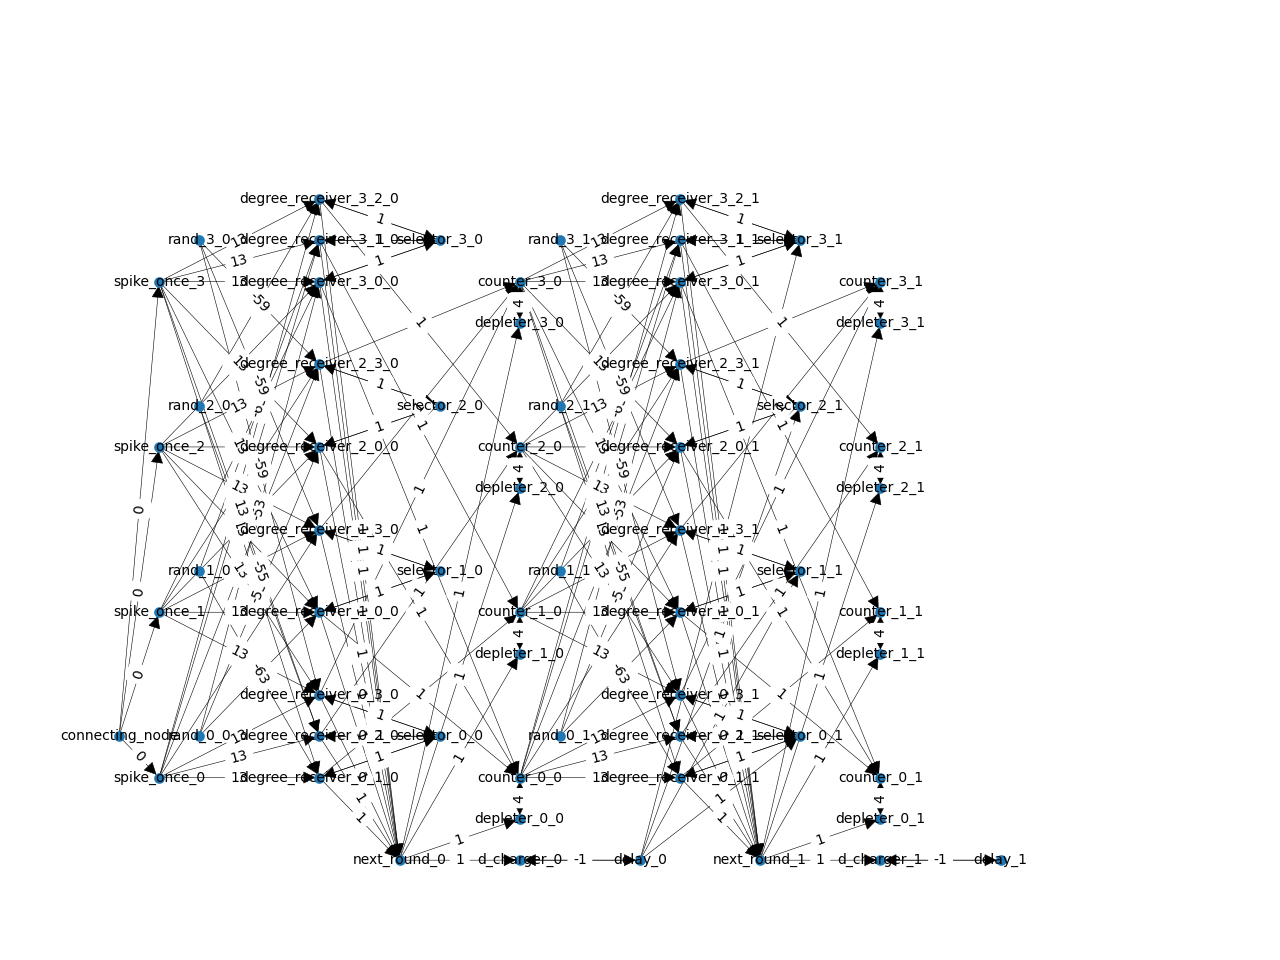
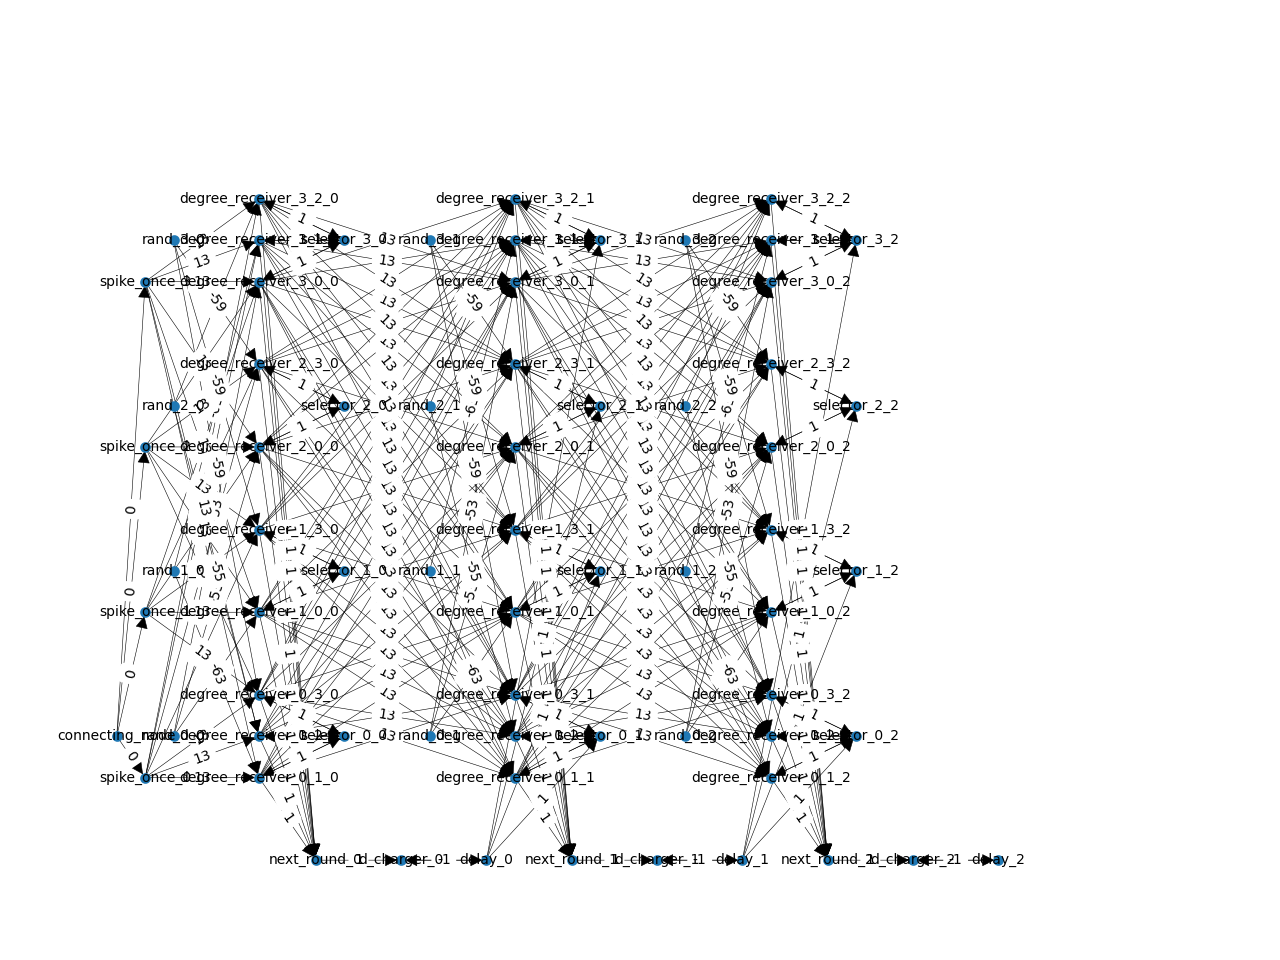
removed counter.

Changed region(s): [[0.0312, 0.1875, 0.8125, 0.9062]]

diff --git a/src/helper_network_structure.py b/src/helper_network_structure.py
@@ -1,5 +1,6 @@
 import copy
 from gettext import npgettext
+from pprint import pprint
 import numpy as np
 import networkx as nx
 import pylab as plt
@@ -26,6 +27,7 @@ def get_weight_receiver_synapse_paths_fully_connected(G):
 
 
 def get_degree_graph_with_separate_wta_circuits(G, rand_nrs, rand_ceil, m=2):
+    m = m + 1
     d = 0.25 * m  # specify grid distance size
     """Returns a networkx graph that represents the snn that computes the
     spiking degree in the degree_receiver neurons.
@@ -39,6 +41,9 @@ def get_degree_graph_with_separate_wta_circuits(G, rand_nrs, rand_ceil, m=2):
     to each of the degree_receiver that represents a neighbour of node A.
     """
     get_degree = nx.DiGraph()
+    # Define list of m mappings for sets of tupples containing synapses
+    left = [{} for _ in range(m)]
+    right = [{} for _ in range(m)]
 
     # Create a node to make the graph connected. (Otherwise, recurrent snn builder can not span/cross the network.)
     get_degree.add_node(
@@ -122,27 +127,27 @@ def get_degree_graph_with_separate_wta_circuits(G, rand_nrs, rand_ceil, m=2):
             )
 
         # Add winner selector node
-        for loop in range(0, m):
-            get_degree.add_node(
-                f"counter_{node}_{loop}",
-                id=node,
-                du=0,
-                dv=1,
-                bias=-len(G),
-                vth=0,
-                pos=(float(9 * d + loop * 9 * d), float(node * 4 * d)),
-            )
+        # for loop in range(0, m):
+        #    get_degree.add_node(
+        #        f"counter_{node}_{loop}",
+        #        id=node,
+        #        du=0,
+        #        dv=1,
+        #        bias=-len(G),
+        #        vth=0,
+        #        pos=(float(9 * d + loop * 9 * d), float(node * 4 * d)),
+        #    )
 
-        for loop in range(0, m):
-            get_degree.add_node(
-                f"depleter_{node}_{loop}",
-                id=node,
-                du=1,
-                dv=1,
-                bias=0,
-                vth=0,
-                pos=(float(9 * d + loop * 9 * d), float(node * 4 * d) - d),
-            )
+        # for loop in range(0, m):
+        #    get_degree.add_node(
+        #        f"depleter_{node}_{loop}",
+        #        id=node,
+        #        du=1,
+        #        dv=1,
+        #        bias=0,
+        #        vth=0,
+        #        pos=(float(9 * d + loop * 9 * d), float(node * 4 * d) - d),
+        #    )
 
         # Create next round connector neurons.
         for loop in range(0, m):
@@ -204,14 +209,20 @@ def get_degree_graph_with_separate_wta_circuits(G, rand_nrs, rand_ceil, m=2):
                         )
 
                         for loop in range(0, m - 1):
-                            get_degree.add_edges_from(
-                                [
-                                    (
-                                        f"counter_{other_node}_{loop}",
-                                        f"degree_receiver_{node}_{neighbour}_{loop+1}",
-                                    )
-                                ],
-                                weight=rand_ceil,
+                            # get_degree.add_edges_from(
+                            #    [
+                            #        (
+                            #            f"counter_{other_node}_{loop}",
+                            #            f"degree_receiver_{node}_{neighbour}_{loop+1}",
+                            #        )
+                            #    ],
+                            #    weight=rand_ceil,
+                            # )
+                            # Create list of outgoing edges from a certain counter neuron.
+                            if not f"counter_{other_node}_{loop}" in right[loop]:
+                                right[loop][f"counter_{other_node}_{loop}"] = []
+                            right[loop][f"counter_{other_node}_{loop}"].append(
+                                f"degree_receiver_{node}_{neighbour}_{loop+1}"
                             )
 
     #    for node in G.nodes:
@@ -253,7 +264,7 @@ def get_degree_graph_with_separate_wta_circuits(G, rand_nrs, rand_ceil, m=2):
         )
 
     for circuit in G.nodes:
-        for loop in range(0, m-1):
+        for loop in range(0, m - 1):
             # TODO
             get_degree.add_edges_from(
                 [
@@ -294,35 +305,35 @@ def get_degree_graph_with_separate_wta_circuits(G, rand_nrs, rand_ceil, m=2):
                             weight=1,
                         )
 
-        for loop in range(0, m):
-            get_degree.add_edges_from(
-                [
-                    (
-                        f"next_round_{loop}",
-                        f"depleter_{circuit}_{loop}",
-                    )
-                ],
-                weight=+1,
-            )
-        for loop in range(0, m):
-            get_degree.add_edges_from(
-                [
-                    (
-                        f"counter_{circuit}_{loop}",
-                        f"depleter_{circuit}_{loop}",
-                    )
-                ],
-                weight=+1,
-            )
-            get_degree.add_edges_from(
-                [
-                    (
-                        f"depleter_{circuit}_{loop}",
-                        f"counter_{circuit}_{loop}",
-                    )
-                ],
-                weight=+len(G),
-            )
+        # for loop in range(0, m):
+        #    get_degree.add_edges_from(
+        #        [
+        #            (
+        #                f"next_round_{loop}",
+        #                f"depleter_{circuit}_{loop}",
+        #            )
+        #        ],
+        #        weight=+1,
+        #    )
+        # for loop in range(0, m):
+        #    get_degree.add_edges_from(
+        #        [
+        #            (
+        #                f"counter_{circuit}_{loop}",
+        #                f"depleter_{circuit}_{loop}",
+        #            )
+        #        ],
+        #        weight=+1,
+        #    )
+        #    get_degree.add_edges_from(
+        #        [
+        #            (
+        #                f"depleter_{circuit}_{loop}",
+        #                f"counter_{circuit}_{loop}",
+        #            )
+        #        ],
+        #        weight=+len(G),
+        #    )
 
         # Add synapse from degree_selector to selector node.
         for neighbour_b in nx.all_neighbors(G, circuit):
@@ -343,15 +354,27 @@ def get_degree_graph_with_separate_wta_circuits(G, rand_nrs, rand_ceil, m=2):
                     )
                 # TODO: UPDATE TO Go from degree_receiver_x_y to counter_y.
                 for loop in range(0, m):
-                    get_degree.add_edges_from(
-                        [
-                            (
-                                f"degree_receiver_{circuit}_{neighbour_b}_{loop}",
-                                f"counter_{neighbour_b}_{loop}",
-                            )
-                        ],
-                        weight=+1,  # to disable bias
-                    )
+                    # get_degree.add_edges_from(
+                    #    [
+                    #        (
+                    #            f"degree_receiver_{circuit}_{neighbour_b}_{loop}",
+                    #            f"counter_{neighbour_b}_{loop}",
+                    #        )
+                    #    ],
+                    #    weight=+1,  # to disable bias
+                    # )
+                    # Create list of outgoing edges from a certain counter neuron.
+                    if (
+                        not f"degree_receiver_{circuit}_{neighbour_b}_{loop}"
+                        in left[loop]
+                    ):
+                        left[loop][
+                            f"degree_receiver_{circuit}_{neighbour_b}_{loop}"
+                        ] = []
+                    left[loop][
+                        f"degree_receiver_{circuit}_{neighbour_b}_{loop}"
+                    ].append(f"counter_{neighbour_b}_{loop}")
+
                 # print(
                 #    f"edge: degree_receiver_{circuit}_{neighbour_b}, selector_{circuit},weight=+1"
                 # )
@@ -370,6 +393,25 @@ def get_degree_graph_with_separate_wta_circuits(G, rand_nrs, rand_ceil, m=2):
                         weight=1,  # To increase u(t) at every timestep.
                     )
             # print(f"selector_{circuit} degree_receiver_{circuit}_{neighbour_b}")
+    pprint(f"left={left}")
+    pprint(f"right={right}")
+
+    # Create replacement synapses.
+    for id in range(m - 1):
+        for l_key, l_value in left[id].items():
+            for l_counter in l_value:
+                for r_key, r_value in right[id].items():
+                    for r_degree in r_value:
+                        if l_counter == r_key:
+                            get_degree.add_edges_from(
+                                [
+                                    (
+                                        l_key,
+                                        r_degree,
+                                    )
+                                ],
+                                weight=rand_ceil,  # To increase u(t) at every timestep.
+                            )
 
     return get_degree
 
